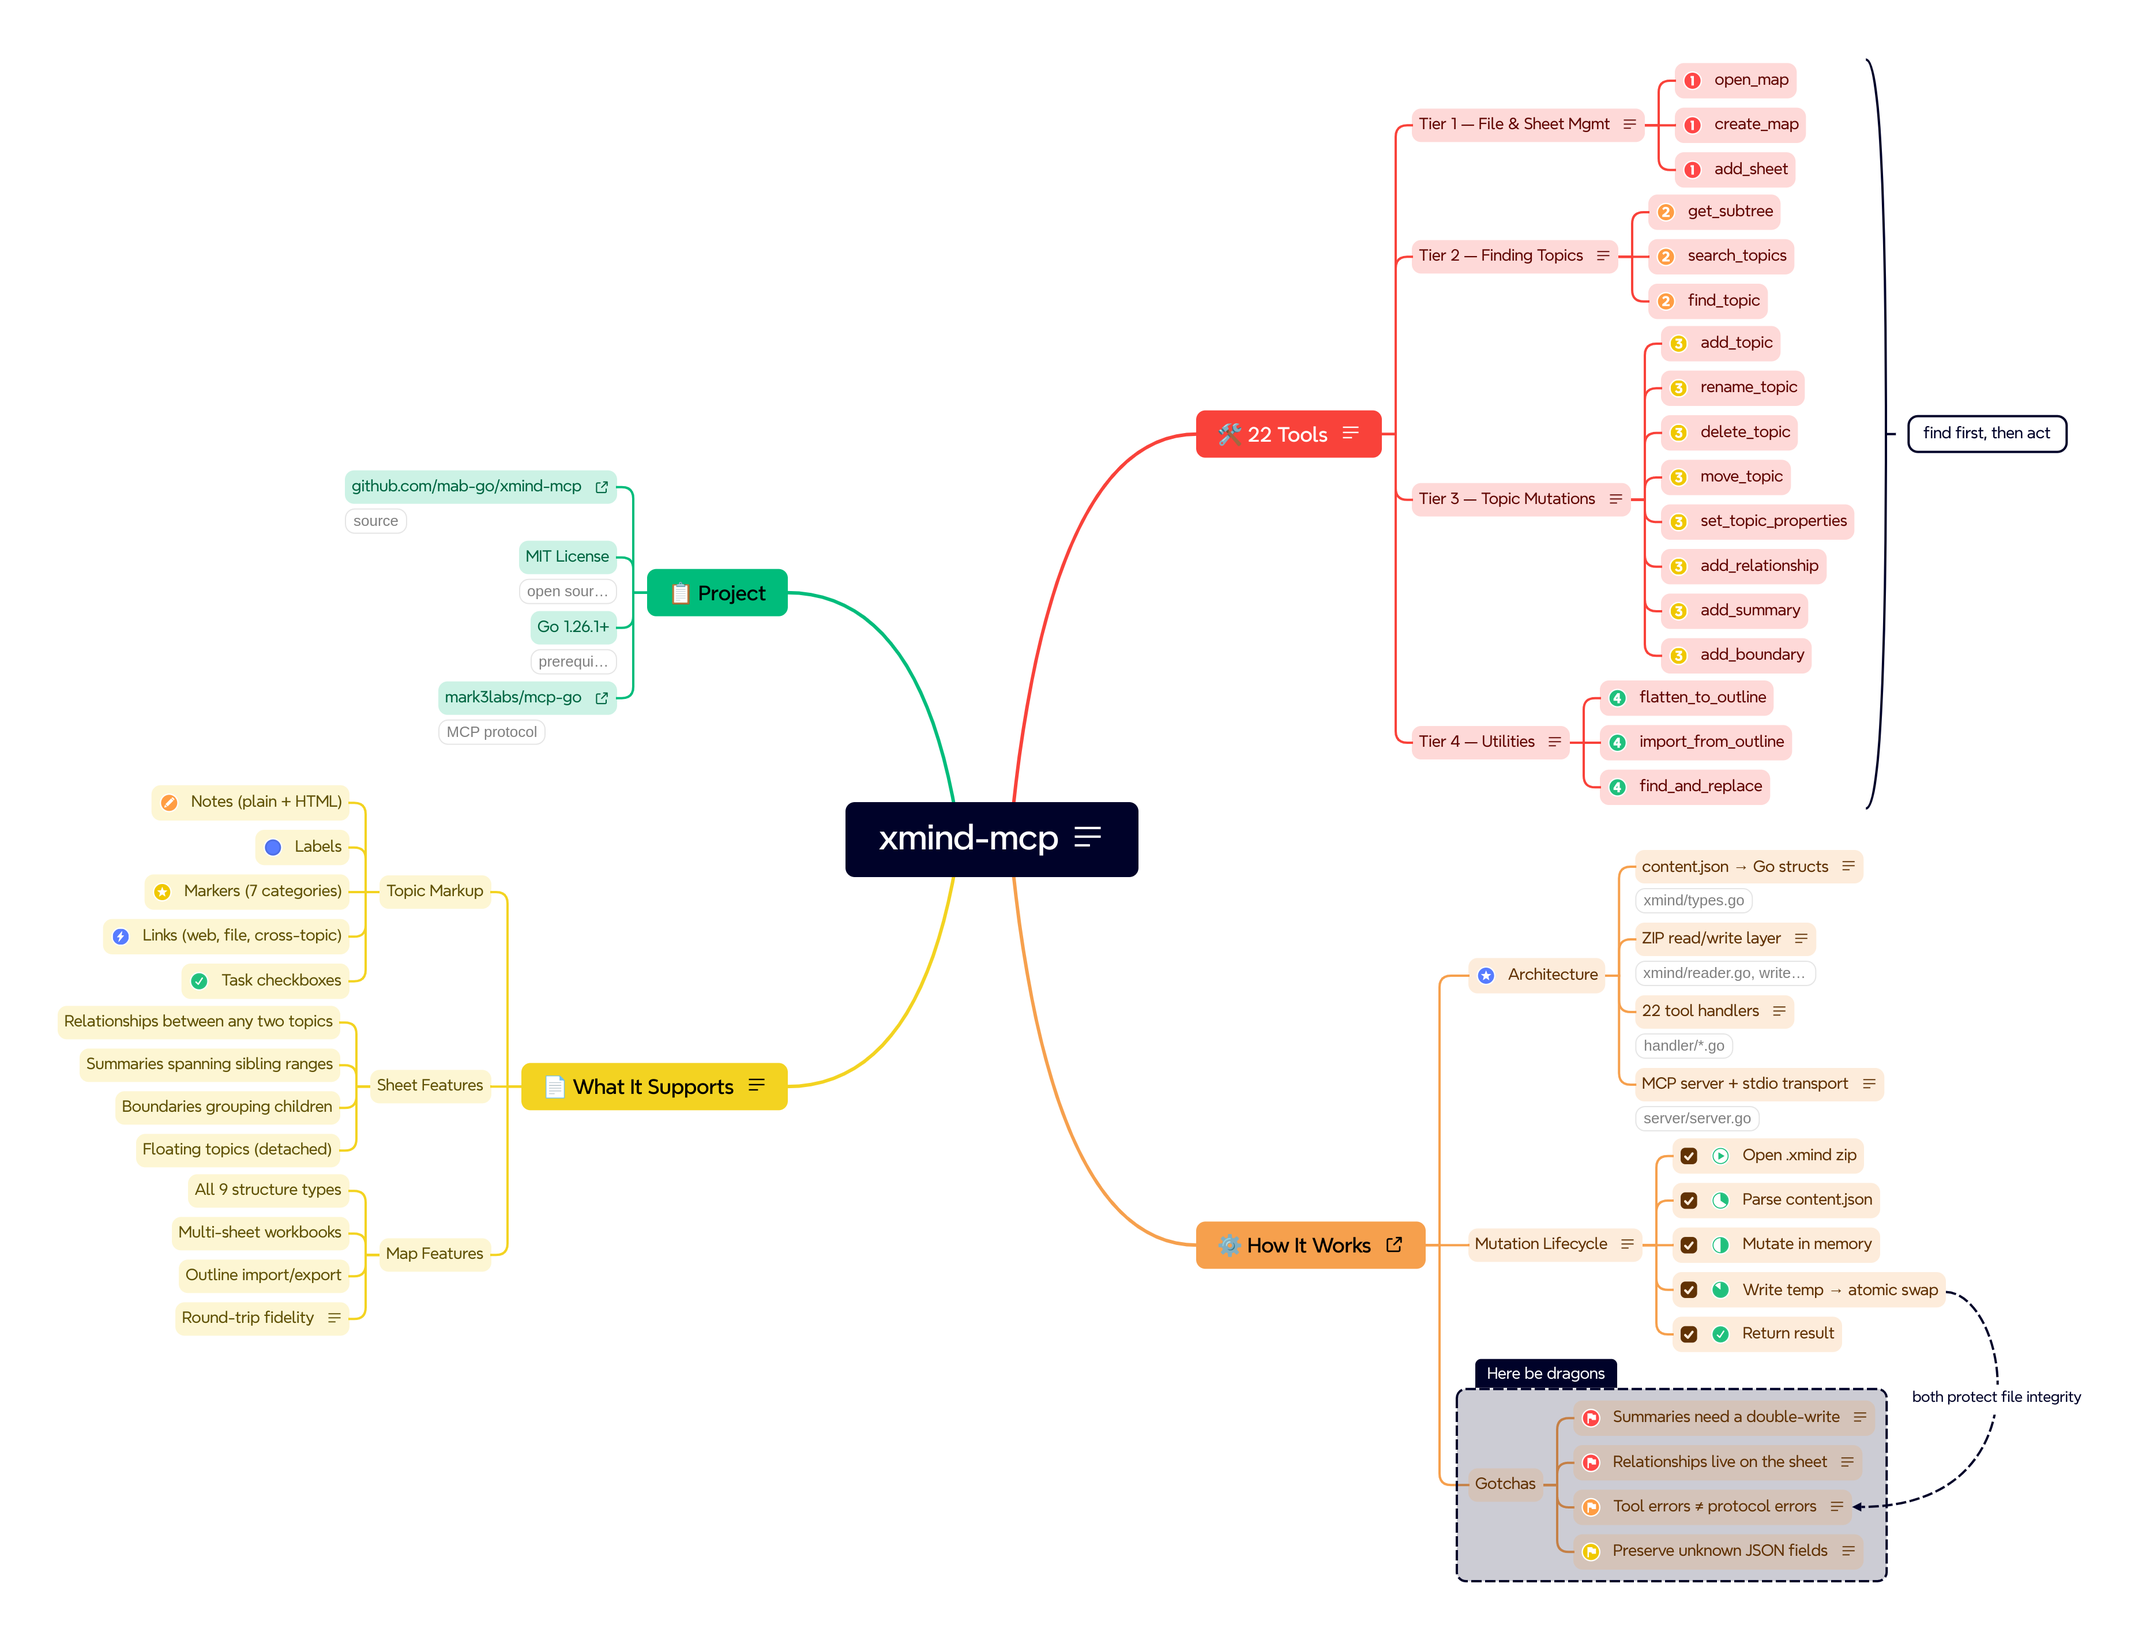
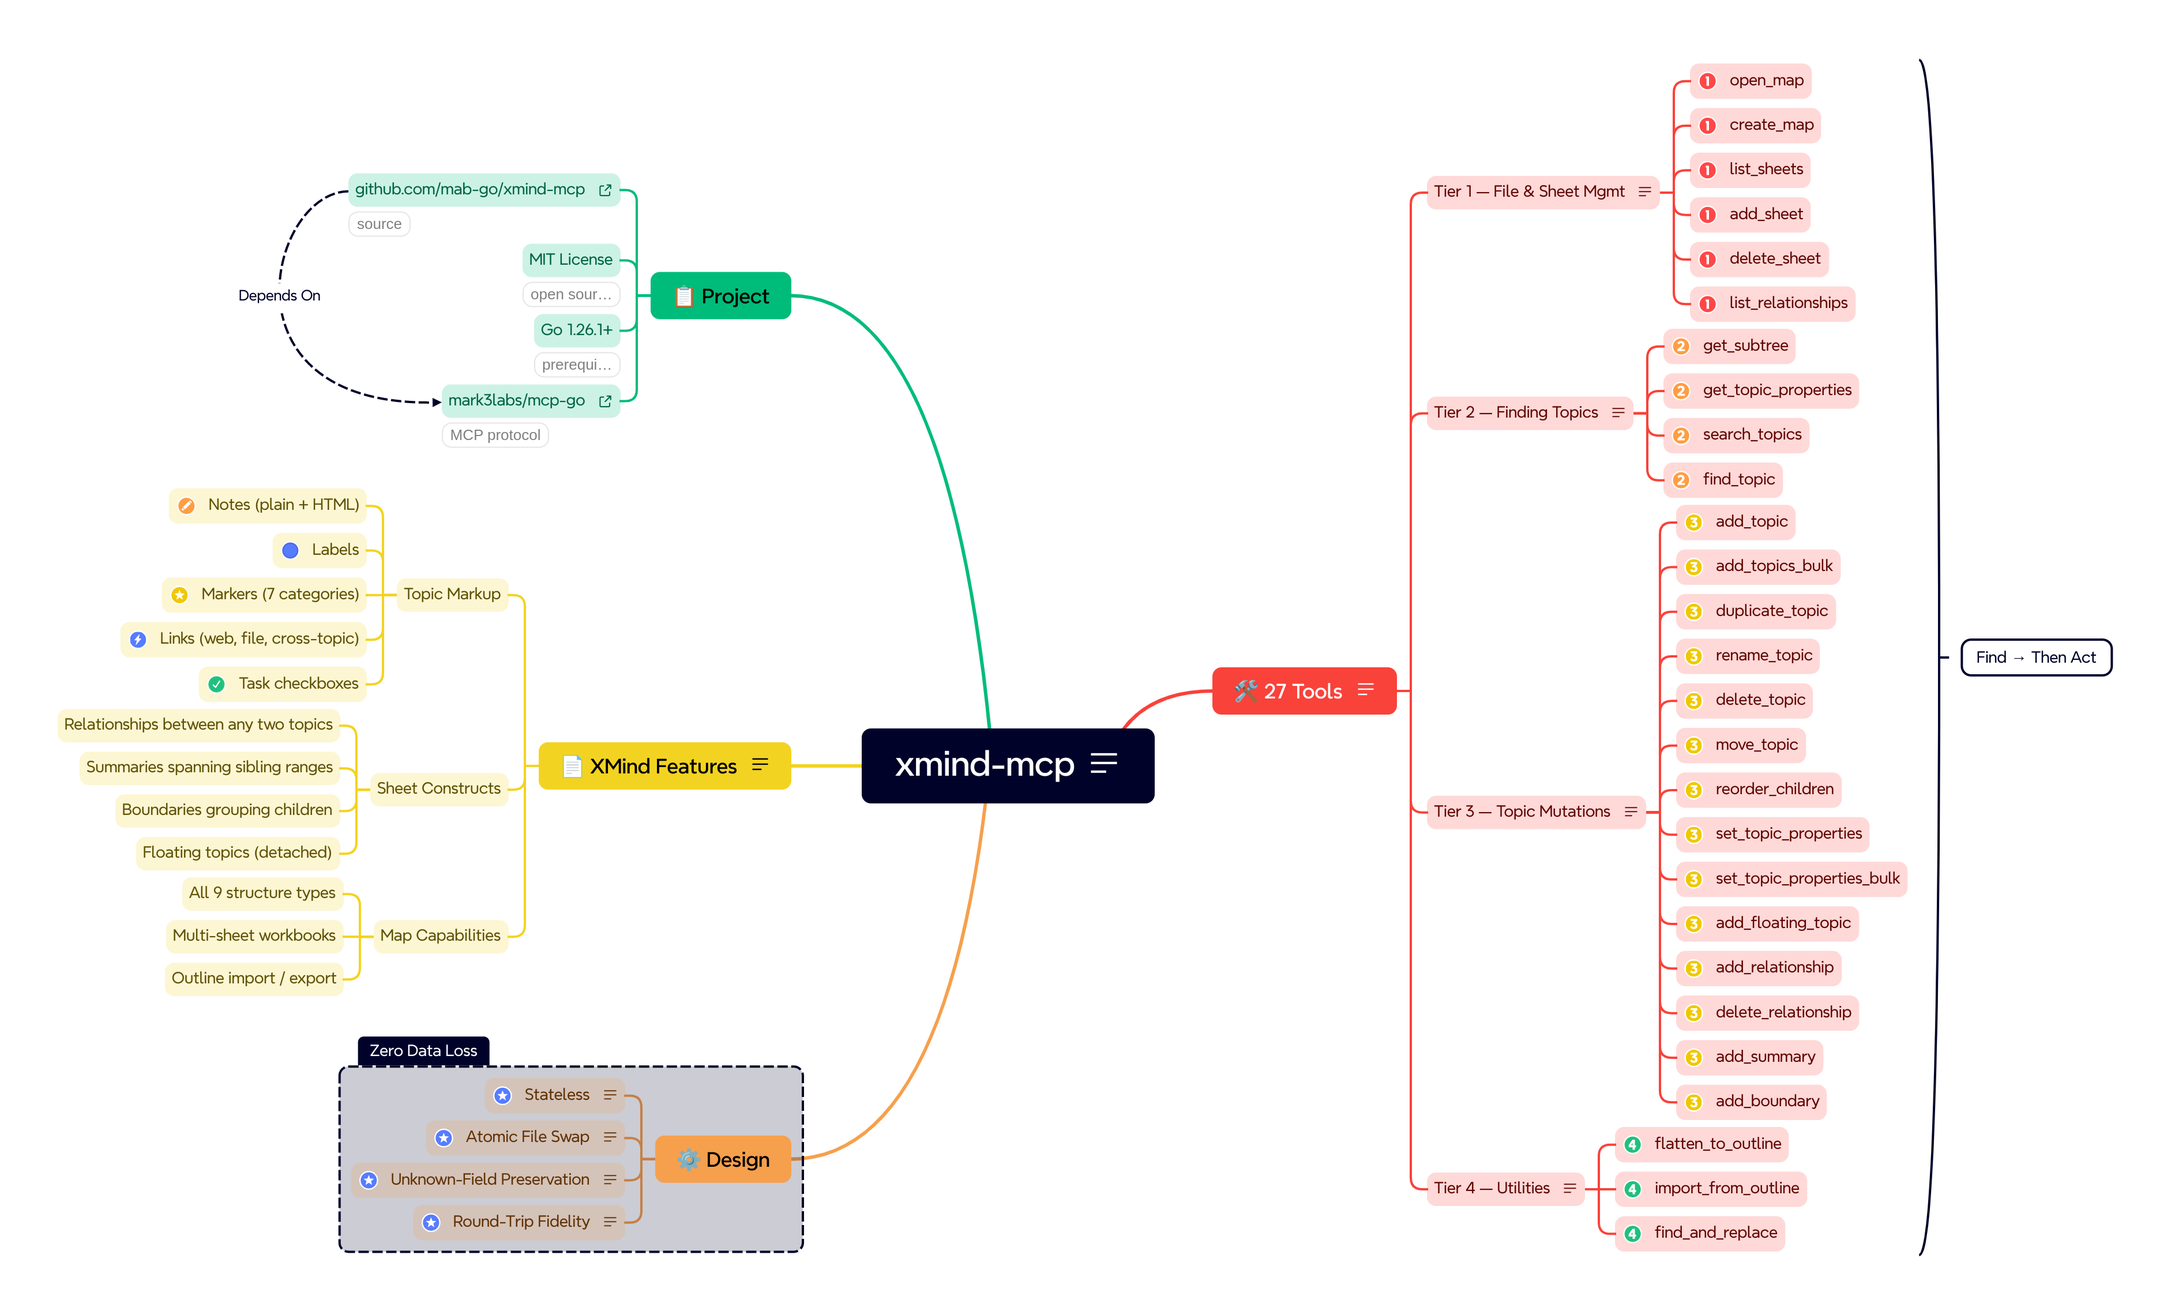
Update example.xmind + README screenshot

diff --git a/cmd/gen-example/main.go b/cmd/gen-example/main.go
@@ -72,14 +72,6 @@ func withLink(t xmind.Topic, url string) xmind.Topic {
 	return t
 }
 
-func withTaskStatus(t xmind.Topic) xmind.Topic {
-	t.Extensions = append(t.Extensions, xmind.Extension{
-		Provider: "org.xmind.ui.task",
-		Content:  map[string]any{"status": "done"},
-	})
-	return t
-}
-
 // ── map construction ─────────────────────────────────────────────────────────
 
 func buildSheet() xmind.Sheet {
@@ -87,20 +79,23 @@ func buildSheet() xmind.Sheet {
 	// ═══════════════════════════════════════════════════════════════════════
 	// Branch 1: Tools
 	//
-	// Each tier gets a handful of representative tool names as leaves,
-	// with the full list in the note. Enough to look populated without
-	// listing all 22 individually.
+	// All 27 tools, organized into four tiers with priority markers.
+	// Every tool name is visible — this is the product.
 	// ═══════════════════════════════════════════════════════════════════════
 
 	tier1 := topic("Tier 1 — File & Sheet Mgmt",
 		withMarkers(leaf("open_map"), "priority-1"),
 		withMarkers(leaf("create_map"), "priority-1"),
+		withMarkers(leaf("list_sheets"), "priority-1"),
 		withMarkers(leaf("add_sheet"), "priority-1"),
+		withMarkers(leaf("delete_sheet"), "priority-1"),
+		withMarkers(leaf("list_relationships"), "priority-1"),
 	)
-	tier1 = withNote(tier1, "5 tools. Also: list_sheets, delete_sheet. Workbook-level operations — typically the first calls in any agentic workflow.")
+	tier1 = withNote(tier1, "6 tools. Workbook-level operations — typically the first calls in any agentic workflow.")
 
 	tier2 := topic("Tier 2 — Finding Topics",
 		withMarkers(leaf("get_subtree"), "priority-2"),
+		withMarkers(leaf("get_topic_properties"), "priority-2"),
 		withMarkers(leaf("search_topics"), "priority-2"),
 		withMarkers(leaf("find_topic"), "priority-2"),
 	)
@@ -108,15 +103,21 @@ func buildSheet() xmind.Sheet {
 
 	tier3 := topic("Tier 3 — Topic Mutations",
 		withMarkers(leaf("add_topic"), "priority-3"),
+		withMarkers(leaf("add_topics_bulk"), "priority-3"),
+		withMarkers(leaf("duplicate_topic"), "priority-3"),
 		withMarkers(leaf("rename_topic"), "priority-3"),
 		withMarkers(leaf("delete_topic"), "priority-3"),
 		withMarkers(leaf("move_topic"), "priority-3"),
+		withMarkers(leaf("reorder_children"), "priority-3"),
 		withMarkers(leaf("set_topic_properties"), "priority-3"),
+		withMarkers(leaf("set_topic_properties_bulk"), "priority-3"),
+		withMarkers(leaf("add_floating_topic"), "priority-3"),
 		withMarkers(leaf("add_relationship"), "priority-3"),
+		withMarkers(leaf("delete_relationship"), "priority-3"),
 		withMarkers(leaf("add_summary"), "priority-3"),
 		withMarkers(leaf("add_boundary"), "priority-3"),
 	)
-	tier3 = withNote(tier3, "11 tools total. Also: add_topics_bulk, reorder_children, add_floating_topic. All require a topic_id from a Tier 2 call.")
+	tier3 = withNote(tier3, "14 tools. All require an ID from a Tier 2 call.")
 
 	tier4 := topic("Tier 4 — Utilities",
 		withMarkers(leaf("flatten_to_outline"), "priority-4"),
@@ -125,12 +126,12 @@ func buildSheet() xmind.Sheet {
 	)
 	tier4 = withNote(tier4, "Export to text/markdown, import from outlines, bulk rename across a sheet.")
 
-	tools := topic("🛠 22 Tools", tier1, tier2, tier3, tier4)
+	tools := topic("🛠 27 Tools", tier1, tier2, tier3, tier4)
 	tools = withNote(tools, "All prefixed with xmind_ to avoid collisions in multi-server MCP environments.")
 
 	// Summary across all four tiers.
 	toolsSummaryID := id()
-	tools.Children.Summary = []xmind.Topic{{ID: toolsSummaryID, Title: "find first, then act"}}
+	tools.Children.Summary = []xmind.Topic{{ID: toolsSummaryID, Title: "Find → Then Act"}}
 	tools.Summaries = []xmind.Summary{{
 		ID:      id(),
 		Range:   "(0,3)",
@@ -138,100 +139,49 @@ func buildSheet() xmind.Sheet {
 	}}
 
 	// ═══════════════════════════════════════════════════════════════════════
-	// Branch 2: How It Works
+	// Branch 2: Design
 	//
-	// Architecture (conceptual data flow), the read/write lifecycle, and
-	// schema gotchas — one branch telling the whole design story.
+	// The engineering principles that make the project trustworthy.
+	// Tight — four leaves with a boundary. Short titles, details in notes.
 	// ═══════════════════════════════════════════════════════════════════════
 
-	// -- Architecture: the conceptual layers --
-
-	typesNode := withNote(
-		withLabels(leaf("content.json → Go structs"), "xmind/types.go"),
-		"Custom UnmarshalJSON/MarshalJSON on every type. Unknown JSON fields are captured into an 'extra' map and merged back on marshal — future XMind fields survive round-trips without data loss.",
+	stateless := withNote(
+		withMarkers(leaf("Stateless"), "star-blue"),
+		"No session state, no in-memory cache between calls. Every tool opens the file, applies changes, and writes it back.",
 	)
 
-	zipNode := withNote(
-		withLabels(leaf("ZIP read/write layer"), "xmind/reader.go, writer.go"),
-		"Reader opens .xmind zip, extracts content.json, unmarshals into []Sheet. Writer serializes sheets, writes to temp file, then atomic os.Rename swap. Non-content entries (images, XML stub) are copied byte-for-byte via OpenRaw/CreateRaw.",
+	atomicSwap := withNote(
+		withMarkers(leaf("Atomic File Swap"), "star-blue"),
+		"Writes to a temp file first, then os.Rename. If anything fails mid-write, the original .xmind is untouched.",
 	)
 
-	handlersNode := withNote(
-		withLabels(leaf("22 tool handlers"), "handler/*.go"),
-		"Each handler: parse args → open file → find sheet → find topic → apply change → write file → return result. Stateless — no session, no in-memory cache between calls.",
+	preserveUnknown := withNote(
+		withMarkers(leaf("Unknown-Field Preservation"), "star-blue"),
+		"Custom JSON codec captures unknown keys into an extra map and merges them back on marshal. Future XMind fields survive round-trips.",
 	)
 
-	mcpNode := withNote(
-		withLabels(leaf("MCP server + stdio transport"), "server/server.go"),
-		"Tool registration and stdio transport via mark3labs/mcp-go. Lifecycle hooks for logging. All tool names prefixed xmind_ for multi-server safety.",
+	roundTrip := withNote(
+		withMarkers(leaf("Round-Trip Fidelity"), "star-blue"),
+		"Themes, extensions, binary resources, and non-content ZIP entries are preserved byte-for-byte through read/write cycles.",
 	)
 
-	arch := topic("Architecture",
-		typesNode, zipNode, handlersNode, mcpNode,
-	)
-	arch = withMarkers(arch, "star-blue")
+	design := topic("⚙ Design", stateless, atomicSwap, preserveUnknown, roundTrip)
 
-	// -- Mutation lifecycle --
-
-	step1 := withMarkers(withTaskStatus(leaf("Open .xmind zip")), "task-start")
-	step2 := withMarkers(withTaskStatus(leaf("Parse content.json")), "task-3oct")
-	step3 := withMarkers(withTaskStatus(leaf("Mutate in memory")), "task-half")
-	step4 := withMarkers(withTaskStatus(leaf("Write temp → atomic swap")), "task-7oct")
-	step5 := withMarkers(withTaskStatus(leaf("Return result")), "task-done")
-
-	lifecycle := topic("Mutation Lifecycle", step1, step2, step3, step4, step5)
-	lifecycle = withNote(lifecycle, "Every mutating tool call follows this exact cycle. No session state, no temp files left behind. If a write fails mid-way, the original file is untouched.")
-
-	// -- Gotchas --
-
-	summaryGotcha := withNote(
-		withMarkers(leaf("Summaries need a double-write"), "flag-red"),
-		"Must write to BOTH children.summary (the topic) AND parent.summaries (the range descriptor). Omitting either produces a broken map in XMind.",
-	)
-
-	relGotcha := withNote(
-		withMarkers(leaf("Relationships live on the sheet"), "flag-red"),
-		"Sheet.Relationships[], NOT on any topic. Writing to a topic appears to work but won't render.",
-	)
-
-	errorGotcha := withNote(
-		withMarkers(leaf("Tool errors ≠ protocol errors"), "flag-orange"),
-		"Expected failures (not found, bad args) → return (*CallToolResult, nil) with IsError. Unexpected failures (I/O, marshal) → return (nil, error). Conflating these makes failures look like crashes to the model.",
-	)
-
-	preserveGotcha := withNote(
-		withMarkers(leaf("Preserve unknown JSON fields"), "flag-yellow"),
-		"json_codec.go captures unknown keys into an 'extra' map and merges them back on marshal. Prevents silent data loss when XMind ships new features.",
-	)
-
-	gotchas := topic("Gotchas", summaryGotcha, relGotcha, errorGotcha, preserveGotcha)
-
-	// Boundary around the gotchas.
-	gotchas.Boundaries = []xmind.Boundary{{
+	// Boundary around all design principles.
+	design.Boundaries = []xmind.Boundary{{
 		ID:    id(),
 		Range: "master",
-		Title: "Here be dragons",
+		Title: "Zero Data Loss",
 	}}
 
-	design := topic("⚙ How It Works", arch, lifecycle, gotchas)
-	design = withLink(design, "https://github.com/mab-go/xmind-mcp")
-
-	// Relationship: lifecycle's atomic swap ↔ error handling gotcha
-	rel := xmind.Relationship{
-		ID:     id(),
-		End1ID: step4.ID,
-		End2ID: errorGotcha.ID,
-		Title:  "both protect file integrity",
-	}
-
 	// ═══════════════════════════════════════════════════════════════════════
-	// Branch 3: What It Supports
+	// Branch 3: XMind Features
 	//
-	// The XMind features the server can read and write — this is what a
-	// user actually wants to know: "what can I do with this?"
+	// What the server can read and write. Each leaf is decorated with the
+	// XMind feature it describes — the screenshot IS the proof.
 	// ═══════════════════════════════════════════════════════════════════════
 
-	topicFeatures := topic("Topic Markup",
+	topicMarkup := topic("Topic Markup",
 		withMarkers(leaf("Notes (plain + HTML)"), "c_symbol_pen"),
 		withMarkers(leaf("Labels"), "tag-blue"),
 		withMarkers(leaf("Markers (7 categories)"), "star-yellow"),
@@ -239,32 +189,37 @@ func buildSheet() xmind.Sheet {
 		withMarkers(leaf("Task checkboxes"), "task-done"),
 	)
 
-	sheetFeatures := topic("Sheet Features",
+	sheetConstructs := topic("Sheet Constructs",
 		leaf("Relationships between any two topics"),
 		leaf("Summaries spanning sibling ranges"),
 		leaf("Boundaries grouping children"),
 		leaf("Floating topics (detached)"),
 	)
 
-	mapFeatures := topic("Map Features",
+	mapCapabilities := topic("Map Capabilities",
 		leaf("All 9 structure types"),
 		leaf("Multi-sheet workbooks"),
-		leaf("Outline import/export"),
-		withNote(leaf("Round-trip fidelity"), "Unknown fields, themes, extensions, and binary resources are preserved through read/write cycles."),
+		leaf("Outline import / export"),
 	)
 
-	supports := topic("📄 What It Supports", topicFeatures, sheetFeatures, mapFeatures)
-	supports = withNote(supports, "The server reads and writes .xmind files — ZIP archives containing content.json, metadata.json, a content.xml stub, and optional resources/ for images and attachments.")
+	features := topic("📄 XMind Features", topicMarkup, sheetConstructs, mapCapabilities)
+	features = withNote(features, "Reads and writes .xmind files — ZIP archives containing content.json and optional resources.")
 
 	// ═══════════════════════════════════════════════════════════════════════
-	// Branch 4: Project Info (lightweight)
+	// Branch 4: Project
+	//
+	// Lightweight metadata. Labels and links give visual variety.
+	// The relationship between the repo and mcp-go shows a dependency.
 	// ═══════════════════════════════════════════════════════════════════════
 
-	meta := topic("📋 Project",
-		withLink(withLabels(leaf("github.com/mab-go/xmind-mcp"), "source"), "https://github.com/mab-go/xmind-mcp"),
+	repoLeaf := withLink(withLabels(leaf("github.com/mab-go/xmind-mcp"), "source"), "https://github.com/mab-go/xmind-mcp")
+	mcpGoLeaf := withLink(withLabels(leaf("mark3labs/mcp-go"), "MCP protocol"), "https://github.com/mark3labs/mcp-go")
+
+	project := topic("📋 Project",
+		repoLeaf,
 		withLabels(leaf("MIT License"), "open source"),
 		withLabels(leaf("Go 1.26.1+"), "prerequisite"),
-		withLink(withLabels(leaf("mark3labs/mcp-go"), "MCP protocol"), "https://github.com/mark3labs/mcp-go"),
+		mcpGoLeaf,
 	)
 
 	// ═══════════════════════════════════════════════════════════════════════
@@ -277,10 +232,18 @@ func buildSheet() xmind.Sheet {
 		Title:          "xmind-mcp",
 		StructureClass: structureClass,
 		Children: &xmind.Children{
-			Attached: []xmind.Topic{tools, design, supports, meta},
+			Attached: []xmind.Topic{tools, design, features, project},
 		},
 	}
-	root = withNote(root, "An MCP server for reading and writing local XMind mind map files. 22 tools let any MCP-compatible AI client create, navigate, and edit .xmind files directly on disk.")
+	root = withNote(root, "An MCP server for reading and writing local XMind mind map files. 27 tools let any MCP-compatible AI client create, navigate, and edit .xmind files directly on disk.")
+
+	// ─── Relationship: repo depends on mcp-go ────────────────────────────
+	dependsOn := xmind.Relationship{
+		ID:     id(),
+		End1ID: repoLeaf.ID,
+		End2ID: mcpGoLeaf.ID,
+		Title:  "Depends On",
+	}
 
 	return xmind.Sheet{
 		ID:               id(),
@@ -289,7 +252,7 @@ func buildSheet() xmind.Sheet {
 		Title:            "xmind-mcp",
 		TopicOverlapping: "overlap",
 		RootTopic:        root,
-		Relationships:    []xmind.Relationship{rel},
+		Relationships:    []xmind.Relationship{dependsOn},
 		Theme:            xmind.DefaultTheme,
 		Extensions:       xmind.DefaultSheetExtensions(structureClass),
 	}
